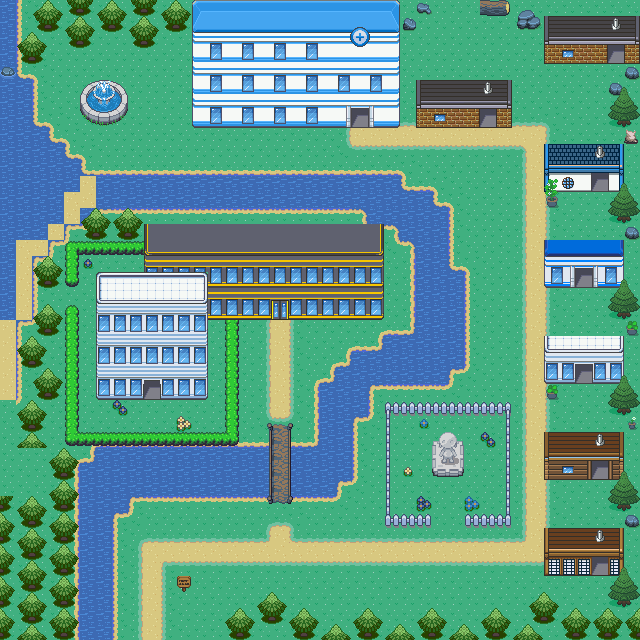
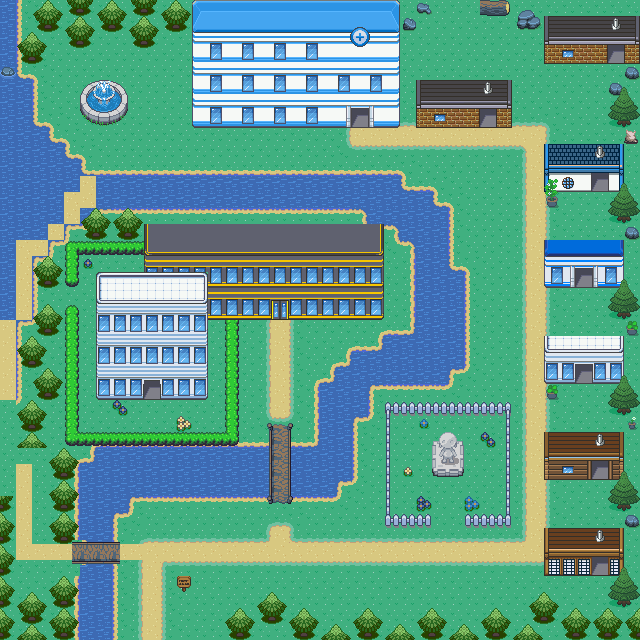
Azurana: trilha e ponte da chegada oeste até a avenida (piloto de legibilidade)
A clareira de chegada vinda da Costa Azul só tinha saída por uma trilha de 1 tile na
beira do lago. Agora uma trilha de areia atravessa a mata (4 árvores 2x2 removidas) e
cruza o rio por uma ponte até a avenida da cidade (de ~100 passos para 34).
Script reprodutível: scripts/mapas/piloto-azurana.py (usa só pixels do próprio mapa).

Claude-Session: https://claude.ai/code/session_0129FvPoVezBurTdaBmu56Ap

Changed region(s): [[0.0, 0.7188, 0.2188, 0.9375]]

diff --git a/scripts/mapas/piloto-azurana.py b/scripts/mapas/piloto-azurana.py
@@ -1,0 +1,61 @@
+#!/usr/bin/env python3
+"""Piloto de legibilidade: Azurana (lado oeste).
+Antes: a clareira de chegada (vinda da Costa Azul) só tinha saída por uma trilha de 1 tile na beira do lago.
+Agora: uma trilha de areia sai da chegada, atravessa a mata (árvores 2x2 removidas) e cruza o rio por uma ponte
+até a avenida de areia da cidade.
+Só usa pixels que já existem no próprio mapa (grama, areia, ponte). Idempotente. Requer Pillow.
+Uso: python3 scripts/mapas/piloto-azurana.py [--dry]
+"""
+import json, sys
+from pathlib import Path
+from PIL import Image
+
+T = 16
+PASTA = Path(__file__).resolve().parents[2] / "public/assets/mapas"
+dry = "--dry" in sys.argv
+
+js = json.loads((PASTA / "azurana.json").read_text())
+w = js["w"]
+sol = list(js["solido"])
+base = Image.open(PASTA / "azurana.png").convert("RGBA")
+cima = Image.open(PASTA / "azurana-cima.png").convert("RGBA")
+orig = base.copy()
+
+def tile(x, y): return orig.crop((x*T, y*T, (x+1)*T, (y+1)*T))
+grama = [tile(0, 29), tile(1, 28), tile(2, 30), tile(0, 27)]
+areia = tile(12, 34)
+
+def livre(x, y): sol[y*w + x] = "0"
+
+# 1) árvores 2x2 removidas (canto superior esquerdo de cada bloco)
+for tx, ty in [(1, 31), (1, 33), (1, 35), (3, 34)]:
+    for dx in (0, 1):
+        for dy in (0, 1):
+            base.paste(grama[(tx+dx+ty+dy) % 4], ((tx+dx)*T, (ty+dy)*T)); livre(tx+dx, ty+dy)
+    cima.paste((0, 0, 0, 0), (tx*T, ty*T, (tx+2)*T, (ty+2)*T))
+
+# 2) trilha de areia: da chegada (1,29) até (1,34), depois para leste até a ponte e a avenida
+for y in range(29, 35): base.paste(areia, (1*T, y*T))
+for x in list(range(1, 5)) + [7, 8]: base.paste(areia, (x*T, 34*T))
+
+# 3) ponte horizontal: miolo da ponte vertical, girado, sem os pixels de água
+deck = orig.crop((268, 432, 293, 480)).rotate(90, expand=True)
+px = deck.load()
+for yy in range(deck.height):
+    for xx in range(deck.width):
+        r, g, b, a = px[xx, yy]
+        if b > r + 50 and b > g + 10: px[xx, yy] = (0, 0, 0, 0)
+base.alpha_composite(deck, (72, 34*T - 4))
+for x in (5, 6): livre(x, 34)
+
+if dry:
+    print("dry-run: nada gravado")
+else:
+    base.save(PASTA / "azurana.png"); cima.save(PASTA / "azurana-cima.png")
+    js["solido"] = "".join(sol)
+    txt = (PASTA / "azurana.json").read_text()
+    # preserva o formato do arquivo: troca só o valor de "solido"
+    import re
+    antigo = json.loads(txt)["solido"]
+    (PASTA / "azurana.json").write_text(txt.replace(antigo, js["solido"], 1))
+    print("Azurana atualizada.")
